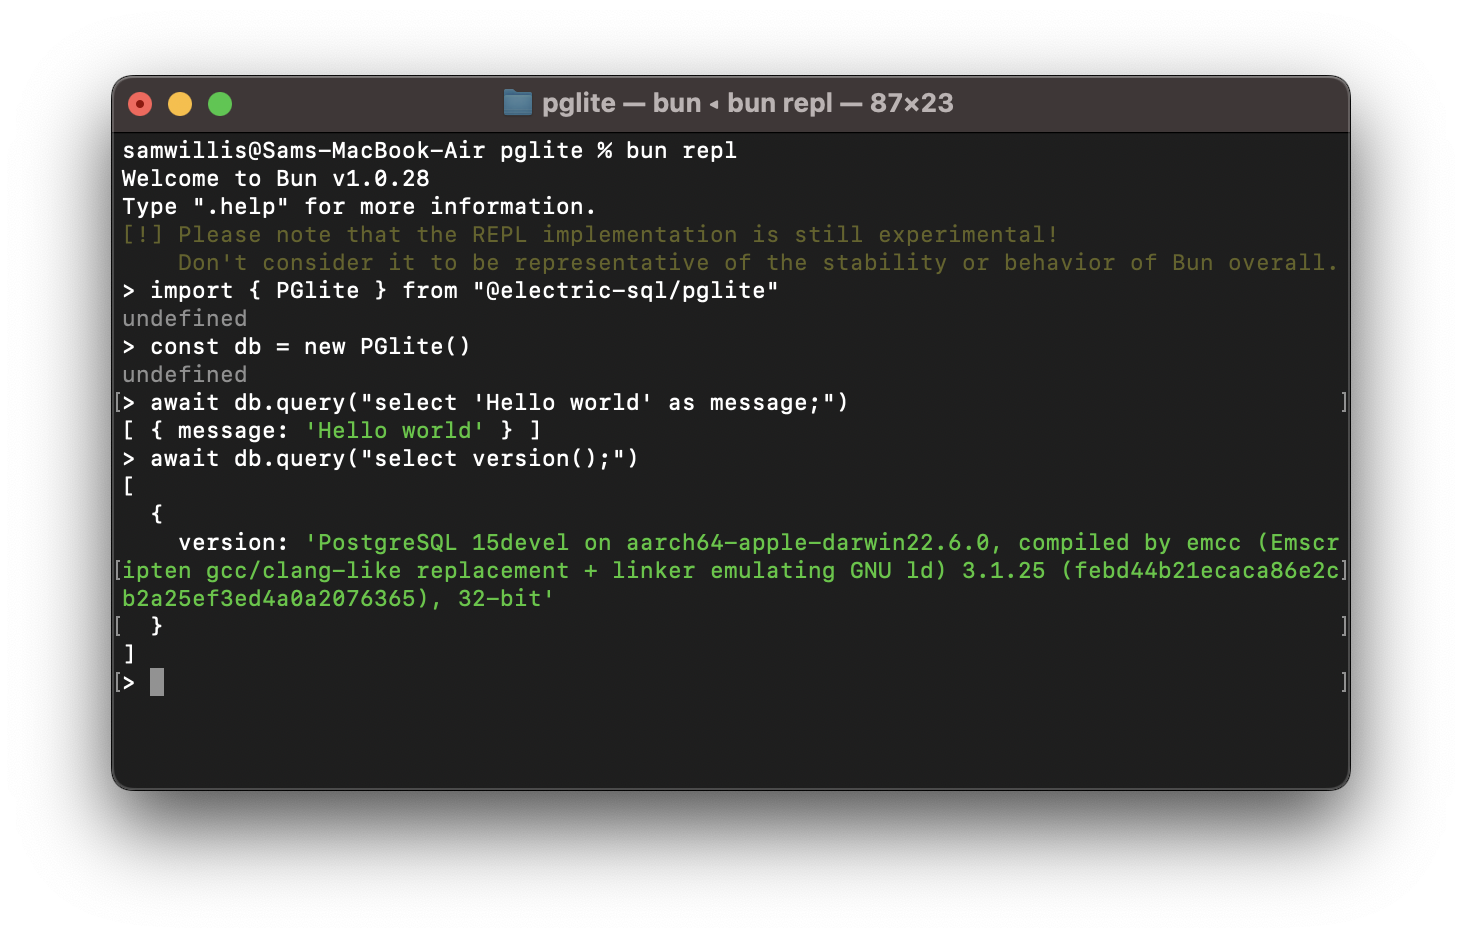
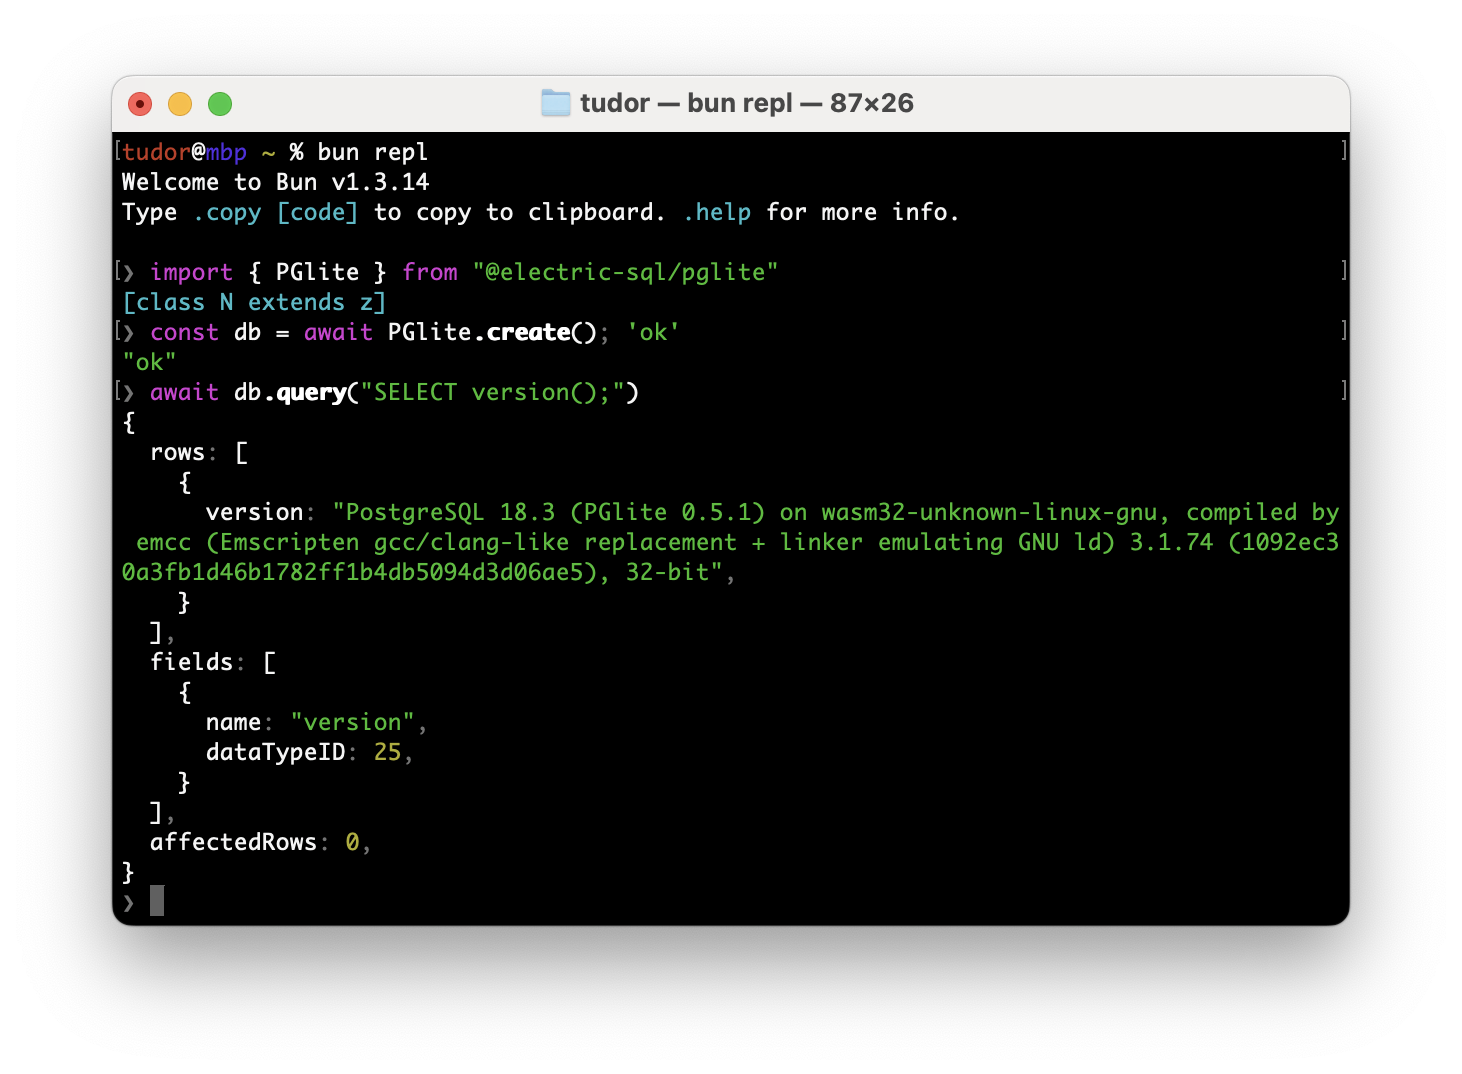
website improvements (#1016)

Pull request: website improvements

diff --git a/docs/docs/localesupport.md b/docs/docs/localesupport.md
@@ -37,10 +37,12 @@ Following is a brief description on how to generate your own icu file that conta
 
 Currently PGlite is tested to work with libicu v76.1. Get the source and data for it:
 
-wget https://github.com/unicode-org/icu/releases/download/release-76-1/icu4c-76_1-src.tgz
-wget https://github.com/unicode-org/icu/releases/download/release-78.3/icu4c-78.3-data.zip
+```bash
+$ wget https://github.com/unicode-org/icu/releases/download/release-76-1/icu4c-76_1-src.tgz
+$ wget https://github.com/unicode-org/icu/releases/download/release-78.3/icu4c-78.3-data.zip
+```
 
-Important: You must have the data sources in order to use the ICU Data Build Tool. Check for the file icu4c/source/data/locales/root.txt. If that file is missing, you need to download “icu4c-_-data.zip”, delete the old icu4c/source/data directory, and replace it with the data directory from the zip file. If there is a _.dat file in icu4c/source/data/in, that file will be used even if you gave ICU custom filter rules.
+Important: You must have the data sources in order to use the ICU Data Build Tool. Check for the file `icu4c/source/data/locales/root.txt`. If that file is missing, you need to download “icu4c-_-data.zip”, delete the old `icu4c/source/` data directory, and replace it with the data directory from the zip file. If there is a _.dat file in `icu4c/source/data/in`, that file will be used even if you gave ICU custom filter rules.
 
 ## Create a filters.json file
 
@@ -61,9 +63,11 @@ For more info, see https://unicode-org.github.io/icu/userguide/icu_data/buildtoo
 
 ## Build ICU
 
+```bash
 $ ICU_DATA_FILTER_FILE=<full_path_to_your_filters.json> ./icu/source/configure --with-data-packaging=files --disable-shared --enable-static --disable-tests --disable-samples --disable-extras --disable-icuio --disable-layoutex --prefix=<your_install_dir>
 
 $ make -j && make install
+```
 
 ## Create an archive with the icu data
 

diff --git a/packages/pglite-icu-full/examples/README.md b/packages/pglite-icu-full/examples/README.md
@@ -6,8 +6,11 @@ This document shows you how to generate your own icu file that contains only the
 
 Currently PGlite is tested to work with libicu v76.1. Get the source and data for it:
 
-wget https://github.com/unicode-org/icu/releases/download/release-76-1/icu4c-76_1-src.tgz
-wget https://github.com/unicode-org/icu/releases/download/release-78.3/icu4c-78.3-data.zip
+```bash
+$ wget https://github.com/unicode-org/icu/releases/download/release-76-1/icu4c-76_1-src.tgz
+
+$ wget https://github.com/unicode-org/icu/releases/download/release-78.3/icu4c-78.3-data.zip
+```
 
 Important: You must have the data sources in order to use the ICU Data Build Tool. Check for the file icu4c/source/data/locales/root.txt. If that file is missing, you need to download “icu4c-*-data.zip”, delete the old icu4c/source/data directory, and replace it with the data directory from the zip file. If there is a *.dat file in icu4c/source/data/in, that file will be used even if you gave ICU custom filter rules.
 
@@ -31,10 +34,11 @@ For more info, see https://unicode-org.github.io/icu/userguide/icu_data/buildtoo
 
 ## Build ICU
 
+```typescript
 $ ICU_DATA_FILTER_FILE=<full_path_to_your_filters.json> ./icu/source/configure --with-data-packaging=files --disable-shared --enable-static --disable-tests --disable-samples --disable-extras --disable-icuio --disable-layoutex --prefix=<your_install_dir>
 
 $ make -j && make install
-
+```
 
 ## Create an archive with the icu data
 

diff --git a/README.md b/README.md
@@ -33,7 +33,7 @@
 
 ![PGlite](https://raw.githubusercontent.com/electric-sql/pglite/main/screenshot.png)
 
-PGlite is a WASM Postgres build packaged into a TypeScript client library that enables you to run Postgres in the browser, Node.js, Bun and Deno, with no need to install any other dependencies. It is only 3mb gzipped and has support for many Postgres extensions, including [pgvector](https://github.com/pgvector/pgvector).
+PGlite is a WASM Postgres build packaged into a TypeScript client library that enables you to run Postgres in the browser, Node.js, Bun and Deno, with no need to install any other dependencies. It is only 3mb gzipped and has support for many Postgres extensions, including [pgvector](https://github.com/pgvector/pgvector) and [PostGIS](https://postgis.net).
 
 ```javascript
 import { PGlite } from "@electric-sql/pglite";

diff --git a/packages/pglite/README.md b/packages/pglite/README.md
@@ -33,7 +33,7 @@
 
 ![PGlite](https://raw.githubusercontent.com/electric-sql/pglite/main/screenshot.png)
 
-PGlite is a WASM Postgres build packaged into a TypeScript client library that enables you to run Postgres in the browser, Node.js, Bun and Deno, with no need to install any other dependencies. It is only 3mb gzipped and has support for many Postgres extensions, including [pgvector](https://github.com/pgvector/pgvector).
+PGlite is a WASM Postgres build packaged into a TypeScript client library that enables you to run Postgres in the browser, Node.js, Bun and Deno, with no need to install any other dependencies. It is only 3mb gzipped and has support for many Postgres extensions, including [pgvector](https://github.com/pgvector/pgvector) and [PostGIS](https://postgis.net).
 
 ```javascript
 import { PGlite } from '@electric-sql/pglite'

diff --git a/packages/pglite-icu-full/README.md b/packages/pglite-icu-full/README.md
@@ -39,6 +39,7 @@ Following is a brief description on how to generate your own icu file that conta
 Currently PGlite is tested to work with libicu v76.1. Get the source and data for it:
 
 wget https://github.com/unicode-org/icu/releases/download/release-76-1/icu4c-76_1-src.tgz
+
 wget https://github.com/unicode-org/icu/releases/download/release-78.3/icu4c-78.3-data.zip
 
 Important: You must have the data sources in order to use the ICU Data Build Tool. Check for the file icu4c/source/data/locales/root.txt. If that file is missing, you need to download “icu4c-*-data.zip”, delete the old icu4c/source/data directory, and replace it with the data directory from the zip file. If there is a *.dat file in icu4c/source/data/in, that file will be used even if you gave ICU custom filter rules.